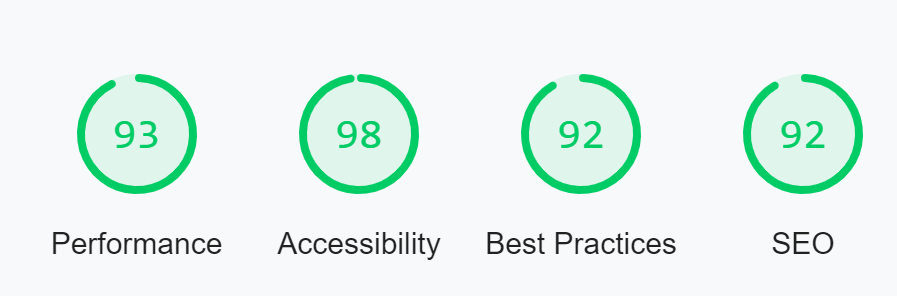
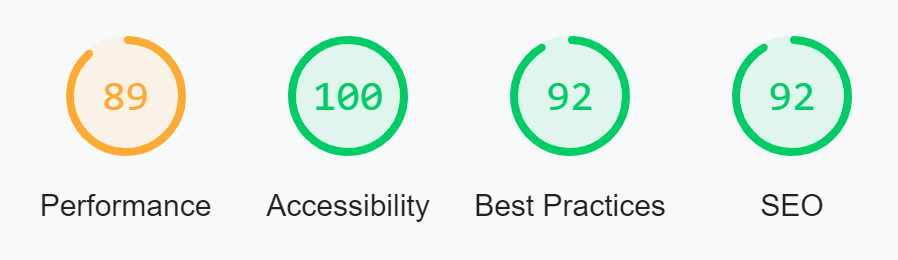
Comments added to HTML files

diff --git a/contact.html b/contact.html
@@ -11,6 +11,7 @@
 </head>
 
 <body>
+    <!-- Header section with Navigation links -->
     <div class="container">
         <header class="header">
             <a href="index.html">
@@ -30,6 +31,7 @@
                 </ul>
             </nav>
         </header>
+        <!-- Contact Form -->
         <section class="form">
             <form method="POST" action="https://formdump.codeinstitute.net/" class="contact-form">
                 <h3>Please contact me for references or if you need any further information.</h3>
@@ -50,6 +52,7 @@
                 <input type="submit" value="Send Message" class="send-button">
             </form>
         </section>
+        <!-- Footer Section -->
         <footer class="footer">
             <ul id=socials>
                 <li>
@@ -63,6 +66,7 @@
                         <i class="fab fa-instagram-square"></i></a>
                 </li>
             </ul>
+
         </footer>
 
         <!-- Script for font awesome icons -->

diff --git a/aboutme.html b/aboutme.html
@@ -11,6 +11,7 @@
 </head>
 
 <body>
+    <!-- Header with Navigation Links -->
     <div class="container">
         <header class="header">
             <a href="index.html">
@@ -31,6 +32,7 @@
             </nav>
         </header>
         <div class="history">
+            <!-- Education section with grades -->
             <section class="education">
                 <div id="school">
                     <h2>Education History</h2>
@@ -63,8 +65,8 @@
                         </table>
                     </div>
                 </div>
-
             </section>
+            <!-- Employment Section with 2 columns and logos -->
             <section class="employment">
                 <div id="job">
                     <h2>Employment History</h2>
@@ -105,6 +107,7 @@
                 </div>
             </section>
         </div>
+        <!-- Footer Section -->
         <footer class="footer">
             <ul id=socials>
                 <li>

diff --git a/index.html b/index.html
@@ -12,6 +12,7 @@
 
 <body>
     <div class="container">
+        <!-- Header Section with Navigation Links -->
         <header class="header">
             <a href="index.html">
                 <h1 id="logo">Curriculum Vitae</h1>
@@ -30,6 +31,7 @@
                 </ul>
             </nav>
         </header>
+        <!-- Home Page including Info and Activities -->
         <div class="homepage">
             <section class="row3" id="hero-outer">
                 <div id="hero-image">
@@ -87,6 +89,8 @@
                 </div>
             </section>
         </div>
+
+        <!-- Footer Section -->
         <footer class="footer">
             <ul id=socials>
                 <li>

diff --git a/README.md b/README.md
@@ -69,7 +69,8 @@ During the testing phase of the project I realised that not all elements were re
         - gallery goes to 1x1 and all elements stacked in center of page. 
         - history page all elements stacked
     - width 1300+
-        - noted white space at side of hero image, this was fixed with edits to media queries.  <img src="assets/images/screenshots/width1300.png" alt="Image of white space surrounding hero image"> 
+        - noted white space at side of hero image, this was fixed with edits to media queries.  
+        <img src="assets/images/screenshots/width1300.png" alt="Image of white space surrounding hero image"> 
         
             
 
@@ -79,11 +80,10 @@ During the testing phase of the project I realised that not all elements were re
 -	CSS
     - There were no issues found when passing code through the official <a href="https://jigsaw.w3.org/css-validator/" target=_blank rel="noopener"> W3C (Jigsaw) validator</a>.<img  src="assets/images/screenshots/CSSresults.PNG" alt="Screengrab of CSS testing results">
 -   Lighthouse score
-    - The lighthouse score for my site is 93 and was caluclated using the <a href="https://web.dev/measure/?gclid=CjwKCAiAksyNBhAPEiwAlDBeLNrgtDnjyshg858znb2oscLaGjVm-r0pRKtJ4wFMaV1Gg1nMQ7JXfBoCei4QAvD_BwE" target=_blank rel="noopener"> Lighthouse score </a> calculation site. <img  src="assets/images/screenshots/lighthouse-score.png" alt="Screengrab of lighthouse score breakdown">
+    - The lighthouse score for my site is 89% and was caluclated using the <a href="https://web.dev/measure/?gclid=CjwKCAiAksyNBhAPEiwAlDBeLNrgtDnjyshg858znb2oscLaGjVm-r0pRKtJ4wFMaV1Gg1nMQ7JXfBoCei4QAvD_BwE" target=_blank rel="noopener"> Lighthouse score </a> calculation site. <img  src="assets/images/screenshots/lighthouse-score.png" alt="Screengrab of lighthouse score breakdown">
 
 
 ### Unfixed Bugs
-- When testing site on larger screen sizes it is distorted on screens of 22" and above. 
 - 
 
 ## Deployment 
@@ -104,6 +104,8 @@ During the testing phase of the project I realised that not all elements were re
         - This resource was used throughout the development of this site. 
 
 - <a href="https://www.w3schools.com/default.asp" target="_blank" rel="noopener"> W3schools </a> was used as a resource when creating the table used to display my grades in the Education History section of my online resume. It was also used for finding additional information to be used in my form. 
+
+- <a href="https://cloudconvert.com/webp-converter" target="_blank" rel="noopener"> Cloud Convert </a> was used as a resource to convert my jpg files to webp files used in my Gallery and Employment sections. 
 
 - Flexbox
     - <a href="https://css-tricks.com/snippets/css/a-guide-to-flexbox/" target="_blank" rel="noopener">CSS-tricks.com</a> was used to obtain more information about implementing flexbox to my site. 
